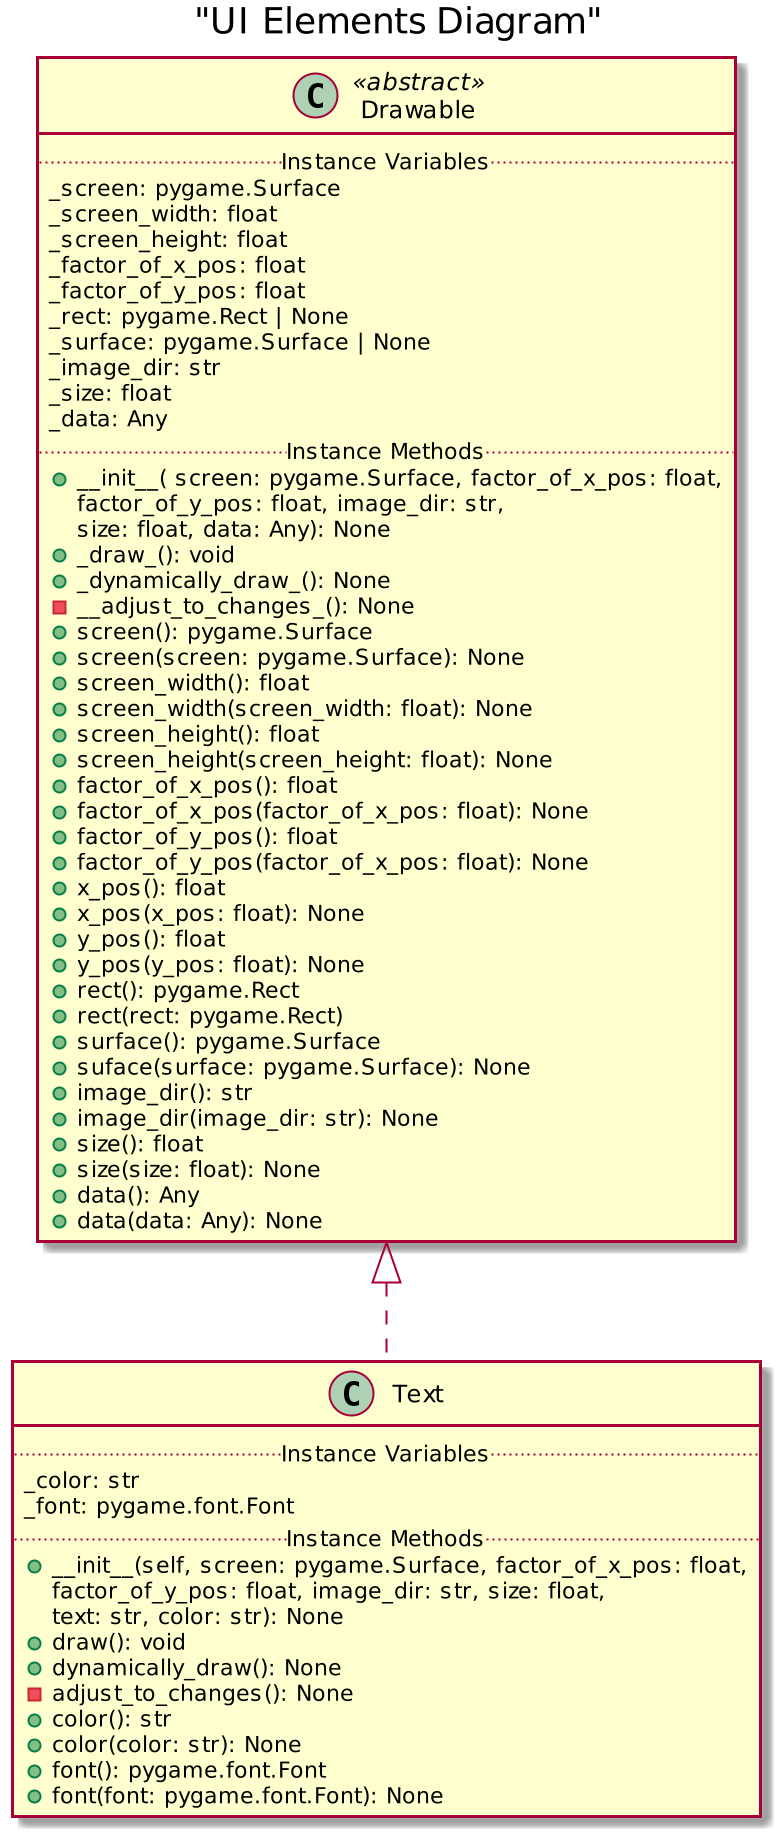
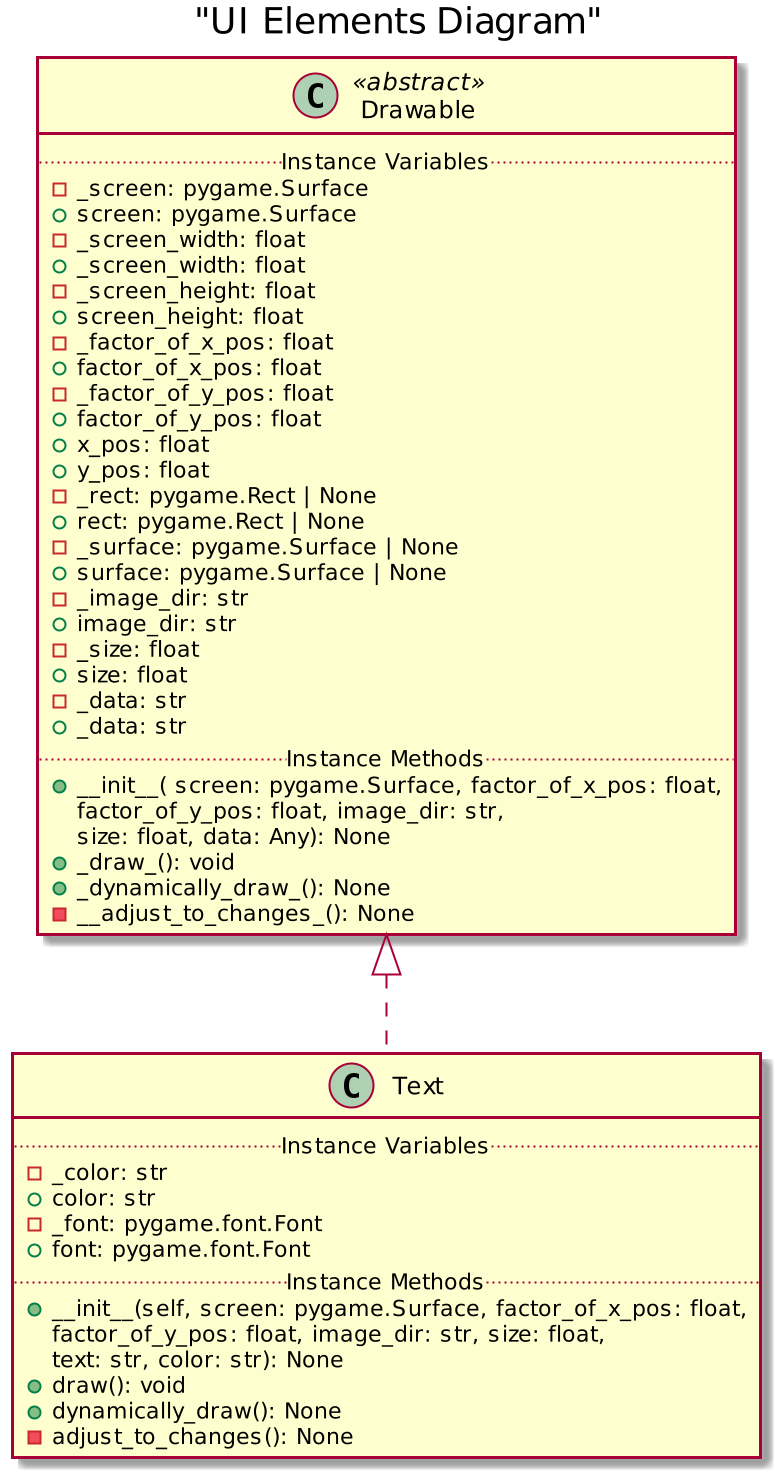
fixed uml diagrams

diff --git a/Puzzle_Maze/ui_elements.py b/Puzzle_Maze/ui_elements.py
@@ -15,7 +15,7 @@ class Drawable(ABC):
 
     def __init__(self, screen: pygame.Surface, factor_of_x_pos: float,
                  factor_of_y_pos: float, image_dir: str,
-                 size: float, data: Any) -> None:
+                 size: float, data: str) -> None:
         """Constructor for Drawable class
 
         Args:
@@ -24,6 +24,7 @@ class Drawable(ABC):
             factor_of_y_pos (float): Position to place object on y-axis
             image_dir (str): Directory to find image that be drawn on screen
             size (float): Size of object
+            data (str): data for given object
         """
         self._screen: pygame.Surface = screen
         self._screen_width: float = self._screen.get_size()[0]
@@ -34,7 +35,7 @@ class Drawable(ABC):
         self._surface: pygame.Surface | None = None
         self._image_dir: str = image_dir
         self._size: float = size
-        self._data: Any = data
+        self._data: str = data
 
     @abstractmethod
     def draw(self) -> None:
@@ -257,21 +258,21 @@ class Drawable(ABC):
         self._size = size
 
     @property
-    def data(self) -> Any:
+    def data(self) -> str:
         """Getter for the data variable
 
         Returns:
-            self._data (Any)
+            self._data (str)
             data needed for the specific object
         """
         return self._data
 
     @data.setter
-    def data(self, data: Any) -> None:
+    def data(self, data: str) -> None:
         """Setter for the data variable
 
         Args:
-            data (Any)
+            data (str)
             the new size to be used while drawing
             object
         """
